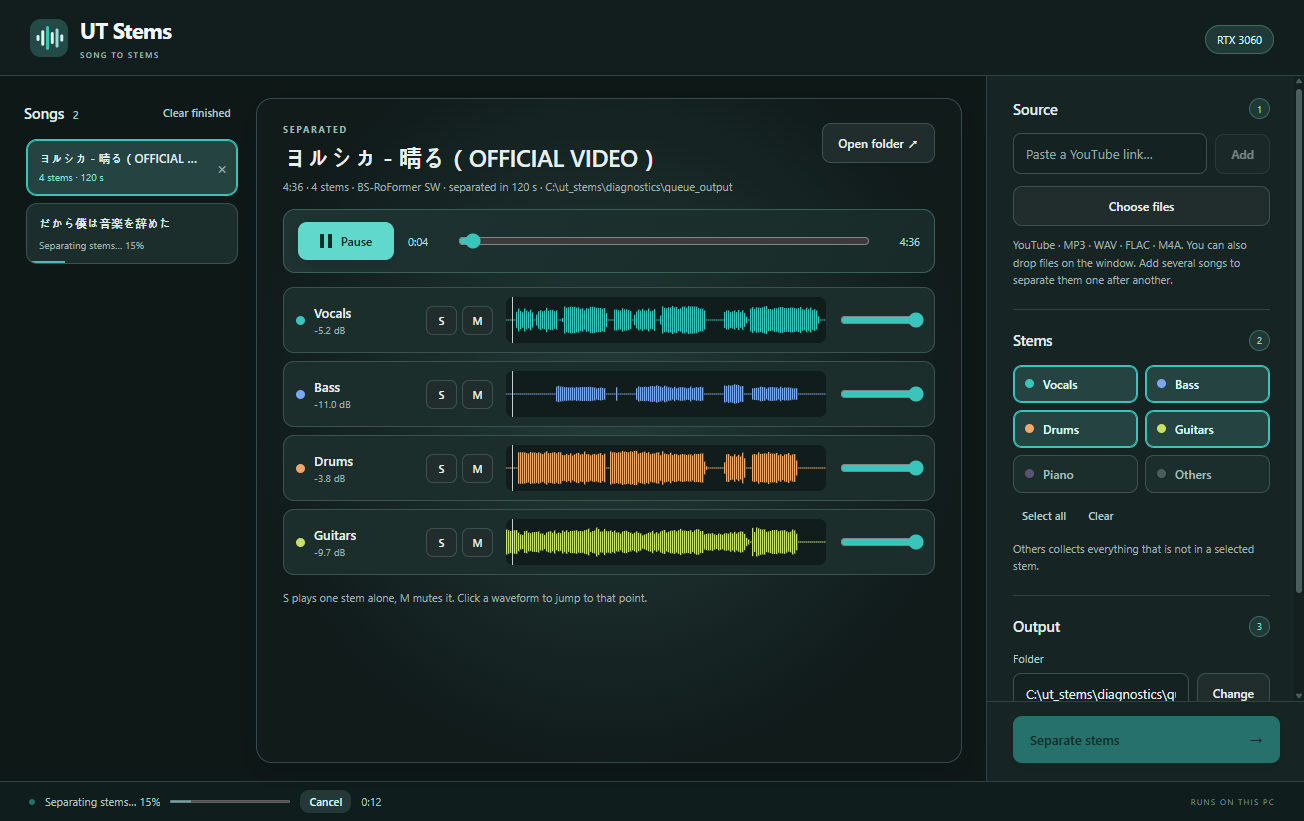
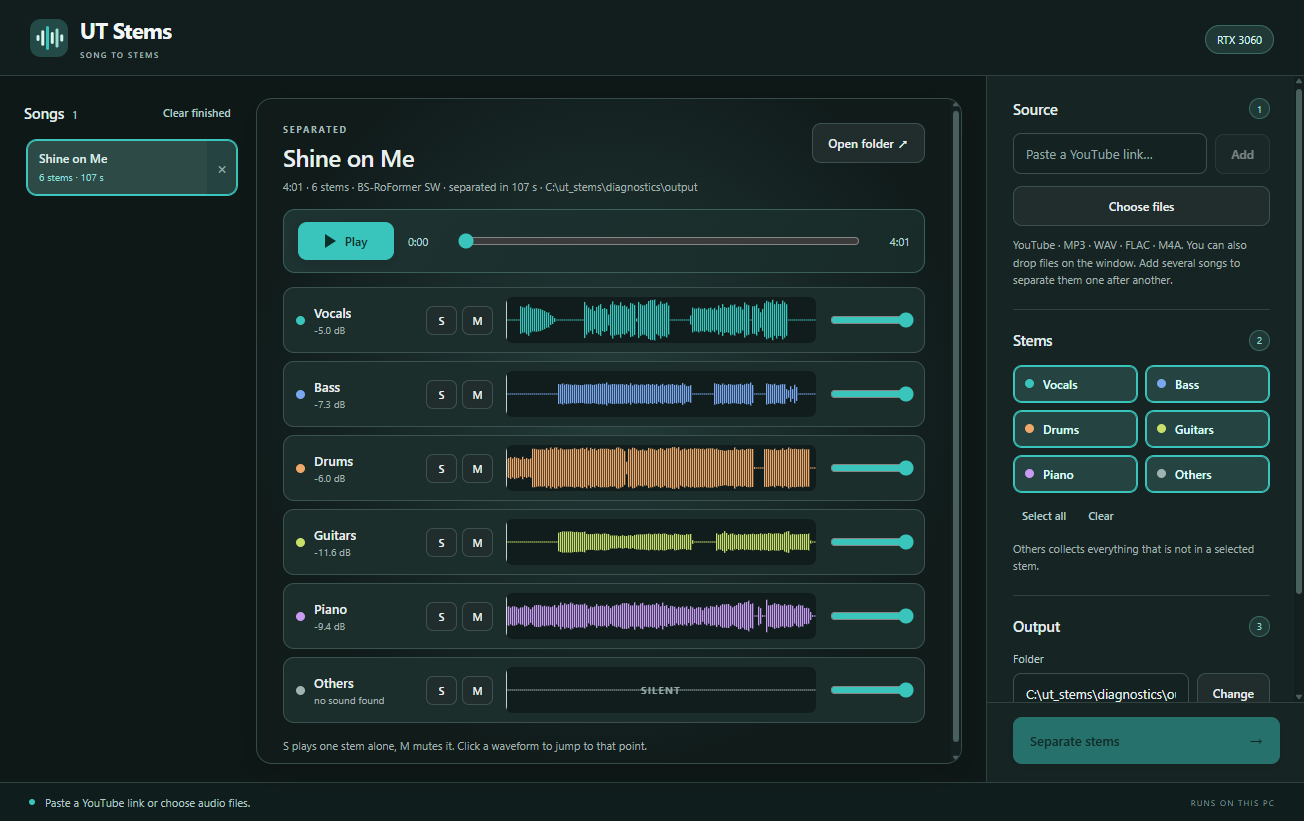
README: use Shine on Me for the screenshot and example links

diff --git a/README.md b/README.md
@@ -82,8 +82,8 @@ The `ut-stems` command works from any folder.
 ```
 ut-stems "song.mp3"
 ut-stems "song.mp3" -o D:\stems
-ut-stems "first.mp3" "second.mp3" "https://youtu.be/CkvWJNt77mU"
-ut-stems "https://youtu.be/CkvWJNt77mU" --stems vocals,bass,drums,guitars
+ut-stems "first.mp3" "second.mp3" "https://youtu.be/suv0x6HfRhw"
+ut-stems "https://youtu.be/suv0x6HfRhw" --stems vocals,bass,drums,guitars
 ```
 
 | Option | Meaning | Default |
